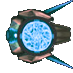
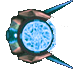
Reorganized unused files

Changed region(s): [[0.6027, 0.2192, 0.9863, 0.7397]]

diff --git a/index.html b/index.html
@@ -572,20 +572,45 @@
 					this.effect = {type: "none"};
 					this.health = 10;
 					this.warpParticleCount = 0;
+					this.warpPhase = 0;
+					this.warpDuration = 2;
 				}
 				particleTick(dt){
-					if(this.warping){
+					if(this.warpPhase < this.warpDuration){
+						this.warpPhase += dt;
 						this.xVel = 0;
 						this.yVel = 0;
-						this.warpParticleCount += 15;
+						if(this.warpPhase > 0.5*this.warpDuration){
+							this.warpParticleCount = this.warpPhase*15;
+						}else{
+							this.warpParticleCount = (this.warpDuration-this.warpPhase*2)*15;
+						}
+						this.warping = true;
+					}else{
+						this.warping = false;
 					}
+
 					for (var i = 0; i < dt*this.warpParticleCount*Rules.gameSpeed; i++) {
-						new Trail(this.sim, this.x+((Math.random()-0.5)*40), this.y+((Math.random()-0.5)*40), 0, 0, 0)
+						//new Trail(this.sim, this.x+((Math.random()-0.5)*40), this.y+((Math.random()-0.5)*40), 0, 0, 0)
 					}
+
 					for (var i = 0; i < dt*10*Rules.gameSpeed; i++) {
 						if(Math.random()>0.95){
 							new Electricity(this.sim, this.x+((Math.random()-0.5)*20), this.y+((Math.random()-0.5)*20), 0, 0, 0)
 						}
+					}
+				}
+				draw(context, camera){
+					let pieceSpec = {
+						x: this.x,
+						y: this.y,
+						width: this.width,
+						height: this.height,
+						xAnchor: 0.5,
+						yAnchor: 0.5
+					};
+					if(true/*this.warpPhase > 0.5*this.warpDuration*/){
+						context.draw(pieceSpec, Img[this.type], camera)
 					}
 				}
 			}
@@ -1070,7 +1095,7 @@
 			}
  			//VIEW
  			let ImageURLs = {
-				blower: 'images/mover2.png',
+				blower: 'images/mover.png',
 				payload: 'images/payload.png',
 				gate: 'images/gate.png',
 				receptical: 'images/receptical.png',

diff --git a/levels.js b/levels.js
@@ -10,22 +10,29 @@ function MakeLevelList(){
 
 	let backgroundUrlList = [
 		"images/background/marsByKD.jpg",
-		"images/background/asteroidRingsByKD.jpg",
-		"images/background/planetMetalByKD.jpg",
-		"images/background/iceBelt.jpg",
-		"images/background/milkyWayByNasa.jpg",
-		"images/background/planetEyeByKD.jpg",
-		"images/background/asteroidField.jpg",
+		//Machine Planet
 		"images/background/planetCracked.jpg",
-		"images/background/planetGreen.jpg",
-		"images/background/marbleGalaxy.jpg",
-		"images/background/jupiterAndMoon.jpg",
-		"images/background/lavaWorld.jpg",
-		"images/background/planetLava2Dim.jpg",
+		"images/background/planetMetalByKD.jpg",
+		"images/background/machinePlanet.jpg",
+		//Lava
 		"images/background/planetRingByKD.jpg",
+		"images/background/planetLava2Dim.jpg",
+		"images/background/lavaWorld.jpg",
 		"images/background/lavaRinged.jpg",
+		//Green
+		"images/background/planetGreen.jpg",
+		//Eye
+		"images/background/planetEyeByKD.jpg",
+		//Deep Space
+		"images/background/milkyWayByNasa.jpg",
+		"images/background/asteroidField.jpg",
+		//Sol
 		"images/background/planetStriped.jpg",
-		"images/background/machinePlanet.jpg"
+		"images/background/jupiterAndMoon.jpg",
+		//Earth
+		"images/background/marbleGalaxy.jpg",
+		"images/background/asteroidRingsByKD.jpg",
+		"images/background/iceBelt.jpg",
 	];
 
 //	backgroundUrlList = [
